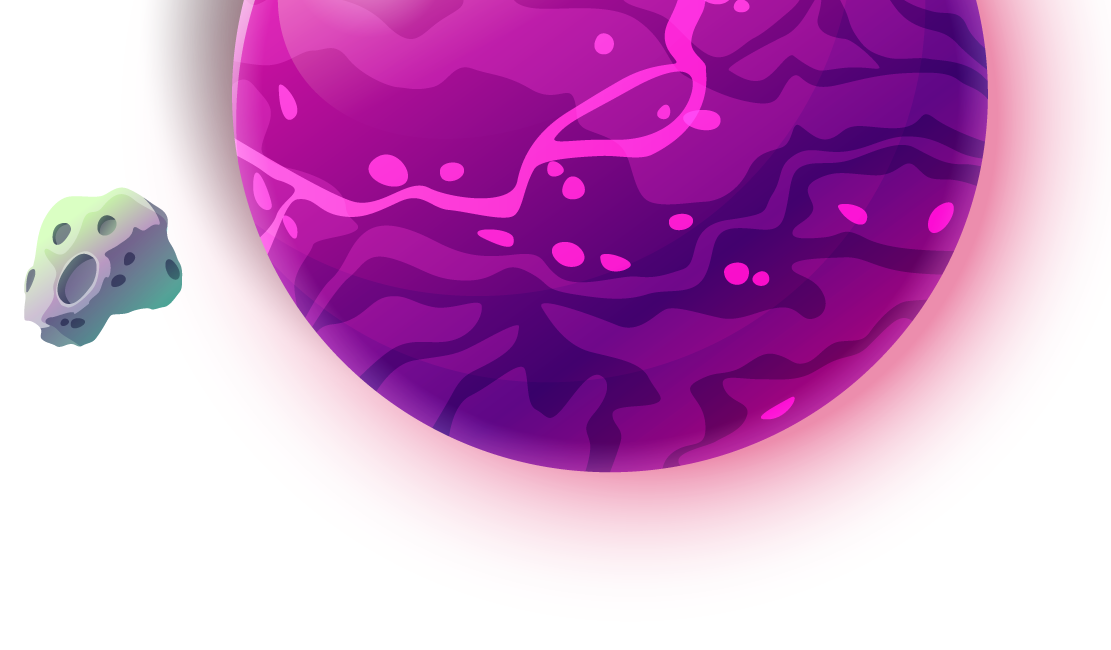
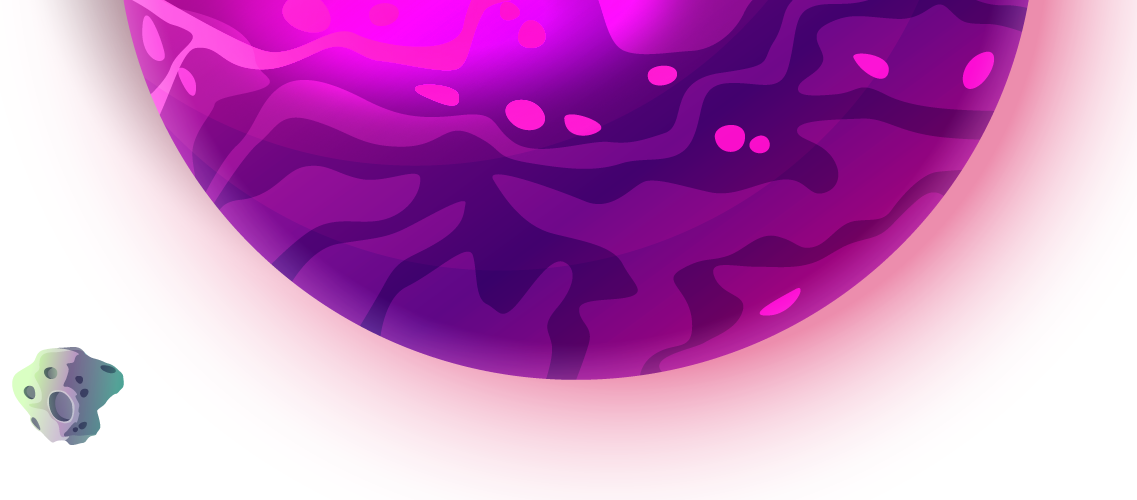
working script and cleanup

diff --git a/new.html b/new.html
@@ -106,9 +106,6 @@ h1.ultima {
 	font-size: 110px;
 	margin-top: 0;
 }
-.saturn-row {
-	background: transparent url("planet-one.png") top left no-repeat;
-}
 .planet-row {
 	background: transparent url("planets.jpg") top center repeat;
 	-webkit-animation: float 200s linear infinite;
@@ -130,15 +127,7 @@ to {
 background-position: 0 0;
 }
 }
-.row.health {
-	background: #c4337c;
-	text-align: center;
-}
-.month {
-	padding: 15px;
-	font-size: 22px;
-	line-height: 1.1em;
-}
+
 .link-wrapper {
 	font-family: 'Roboto', serif;
 	font-weight: 600;
@@ -162,13 +151,9 @@ background-position: 0 0;
 	width: 700px;
 	padding-bottom: 30px;
 }
-.item.earth-background {
-	width: 700px;
-	height: 700px;
-}
 .fade-in-text {
-	-webkit-animation: fade-in-text 3s linear .1s both;
-	animation: fade-in-text 3s linear .1s both;
+	-webkit-animation: fade-in-text 1s linear .1s both;
+	animation: fade-in-text 1s linear .1s both;
 }
 .link, .link:visited, .link:active {
 	width: 325px;
@@ -189,6 +174,7 @@ background-position: 0 0;
 	text-decoration: none;
 	-webkit-transition-duration: 1s;
 	transition-duration: 1s;
+	box-shadow: 0 0 50px 0px rgba(255,255,255,.8);
 }
 .galaxy-logo {
 	padding: 25px 15px;
@@ -416,7 +402,7 @@ height="0" width="0" style="display:none;visibility:hidden"></iframe>
   <div id="general-alert" style="display:none;"></div>
   <!-- InstanceBeginEditable name="Content" -->
   <div class="row planet-row">
-    <div class="saturn-row">
+    <div class="saturn-row" style="background: transparent url('planet-one.png') top left no-repeat;">
       <div class="container-md no-padding text-center">
         <div class="item-wrapper">
           <div class="item image-content">
@@ -424,7 +410,23 @@ height="0" width="0" style="display:none;visibility:hidden"></iframe>
           </div>
           <div class="item content">
             <h1 class="ultima text-uppercase">5 Days of Giveaways</h1>
-            <div class="link-wrapper fade-in-text"> <a href="summer-reading/giveaways/" class="link">Five Galactic Giveaways</a> <a href="summer-reading" class="link">Summer Reading for Earthlings</a> <a href="fete-des-fables/family-fete/" class="link">Fintastic Family Fête</a> <a href="https://dcl.bibliocommons.com/list/share/692278051/1898512829" class="link">Stargazer’s Guide to Summer Reads</a></div>
+            <div class="link-wrapper fade-in-text"> <a href="summer-reading/giveaways/" class="link">July 2 Giveaway</a> <a href="summer-reading" class="link">Summer Reading for Earthlings</a> <a href="fete-des-fables/family-fete/" class="link">Fintastic Family Fête</a> <a href="https://dcl.bibliocommons.com/list/share/692278051/1898512829" class="link">Stargazer’s Guide to Summer Reads</a></div>
+          </div>
+          <div class="item image-content-alt">
+            <div class="astronaut-alt"><img class="center-block" src="astronaut-alt.png" alt=""></div>
+          </div>
+        </div>
+      </div>
+    </div>
+    <div class="saturn-row" style="background: transparent url('planet-two.png') top left no-repeat;">
+      <div class="container-md no-padding text-center">
+        <div class="item-wrapper">
+          <div class="item image-content">
+            <div class="astronaut"><img class="img-responsive center-block" src="astronaut.png" alt=""></div>
+          </div>
+          <div class="item content">
+            <h1 class="ultima text-uppercase">5 Days of Giveaways</h1>
+            <div class="link-wrapper fade-in-text"> <a href="summer-reading/giveaways/" class="link">July 2 Giveaway</a> <a href="summer-reading" class="link">Summer Reading for Earthlings</a> <a href="fete-des-fables/family-fete/" class="link">Fintastic Family Fête</a> <a href="https://dcl.bibliocommons.com/list/share/692278051/1898512829" class="link">Stargazer’s Guide to Summer Reads</a></div>
           </div>
           <div class="item image-content-alt">
             <div class="astronaut-alt"><img class="center-block" src="astronaut-alt.png" alt=""></div>
@@ -491,7 +493,13 @@ height="0" width="0" style="display:none;visibility:hidden"></iframe>
     </div>
   </div>
 </div>
-<!-- InstanceBeginEditable name="scripts" --> <!-- InstanceEndEditable --> <!-- InstanceBeginEditable name="structured data" --> 
+<!-- InstanceBeginEditable name="scripts" --> 
+<!--randomize div--> 
+<script>
+var random = Math.floor(Math.random() * $('.saturn-row').length);
+$('.saturn-row').hide().eq(random).show();
+</script> 
+<!-- InstanceEndEditable --> <!-- InstanceBeginEditable name="structured data" --> 
 <script type="application/ld+json">
 {
 	"@context": "http://schema.org",
